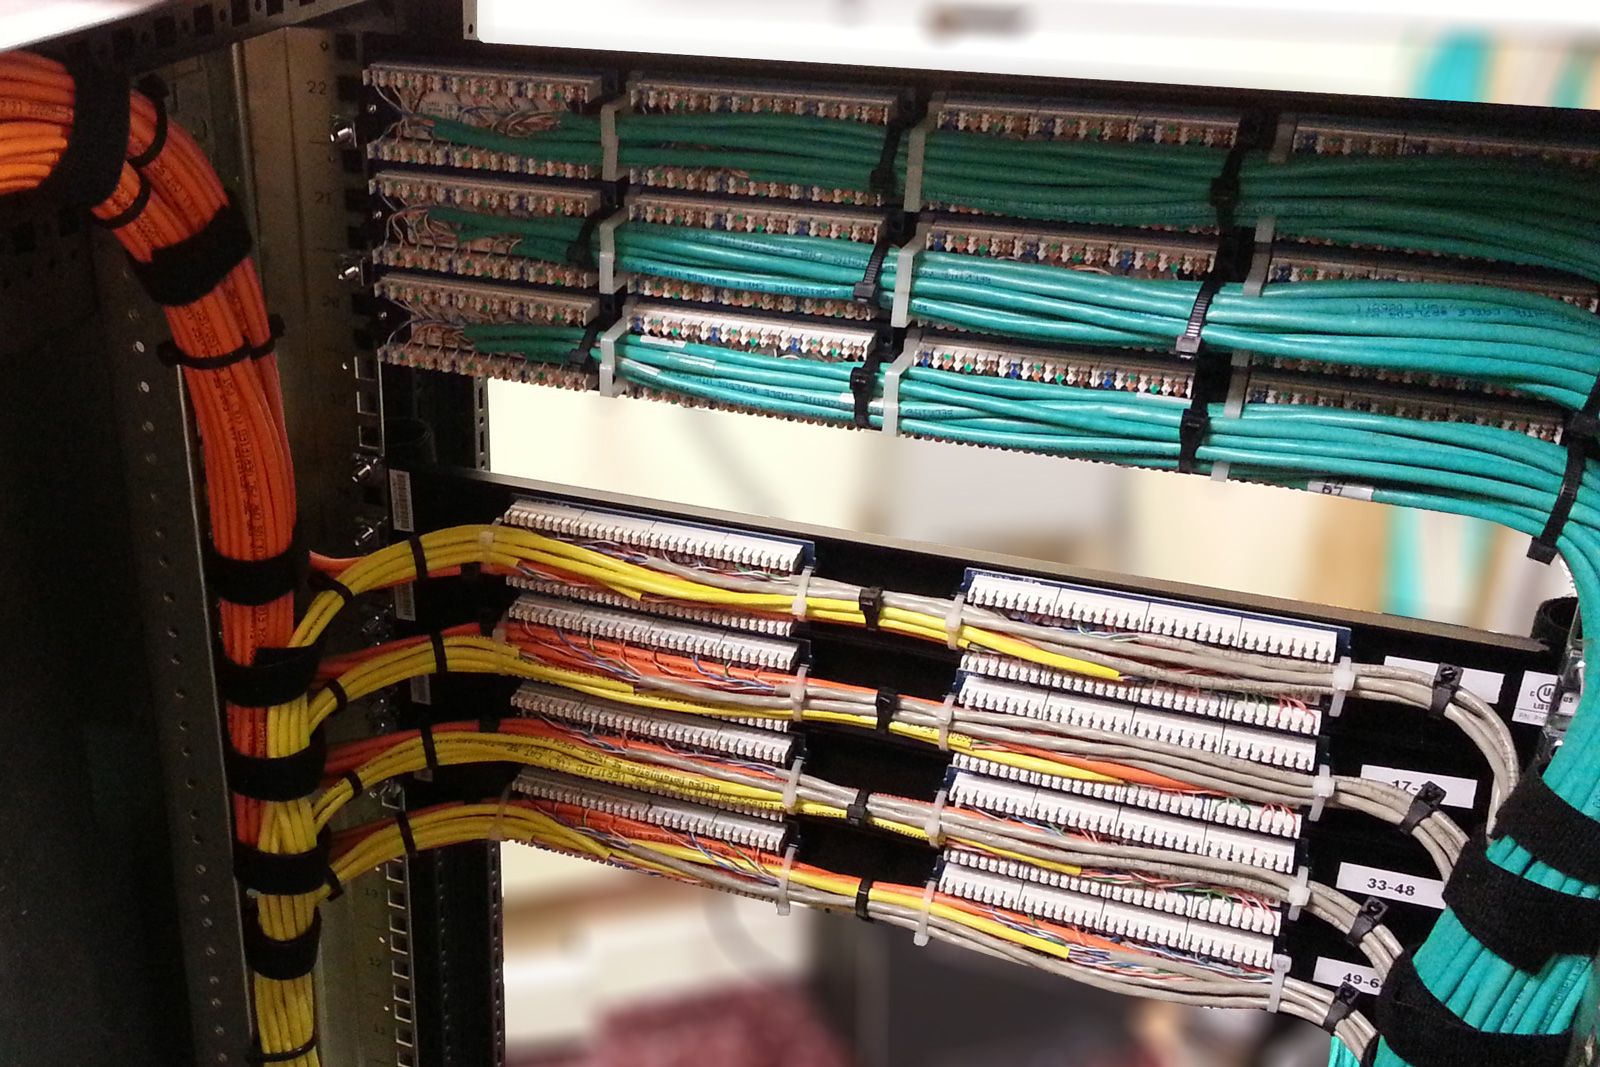
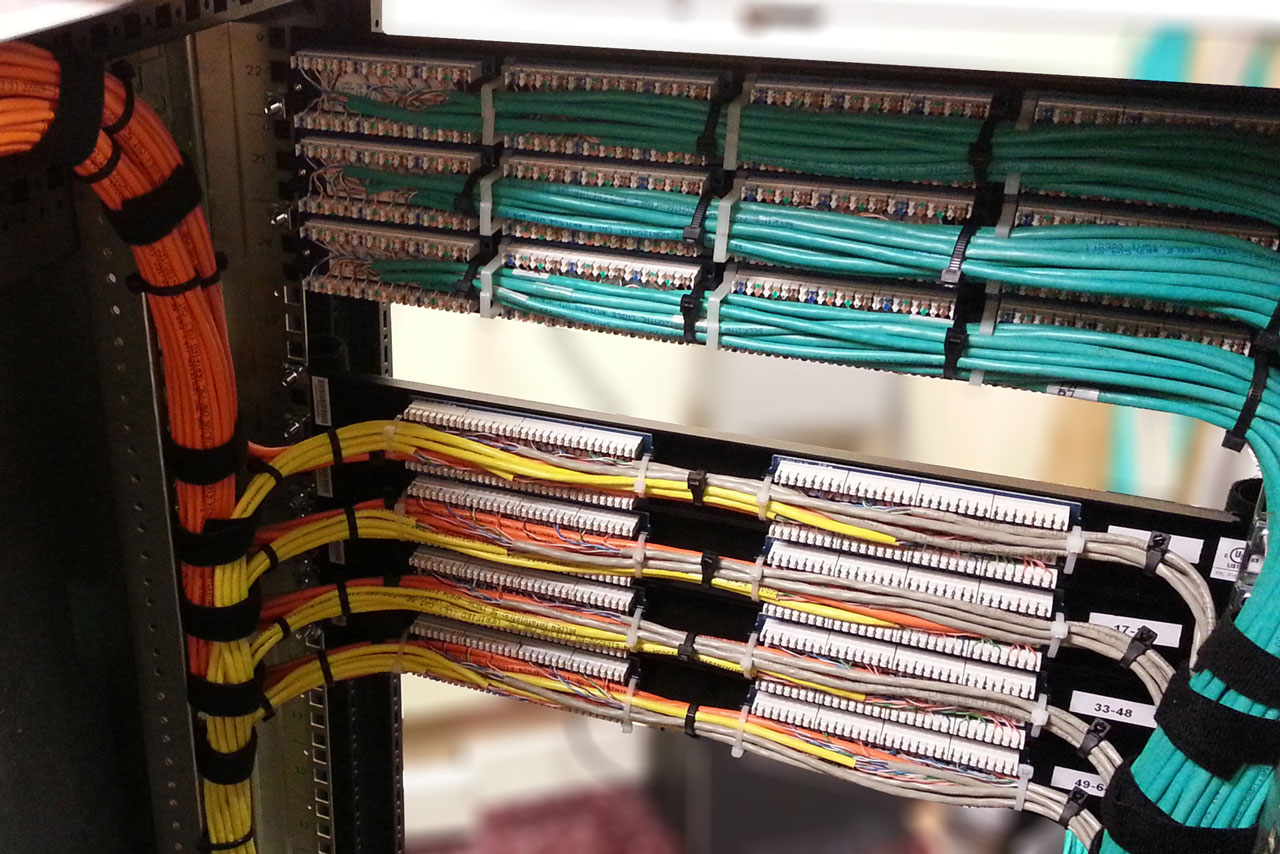
Misc Modifications Image Resize

diff --git a/index.html b/index.html
@@ -42,8 +42,8 @@
 			<ul>
 				<li><a href="https://www.facebook.com/LinkTechServicesLLC" title="Visit LinkTech Services on Facebook"><img src="images/icon-facebook.png" /></a></li>
 				<li><a href="https://twitter.com/LinkTechSD" title="Follow LinkTech Services on Twitter"><img src="images/icon-twitter.png" /></a></li>
-				<li><a href="#"><img src="images/icon-google.png" /></a></li>
-				<li><a href="#"><img src="images/icon-linkedin.png" /></a></li>
+				<!-- <li><a href="#"><img src="images/icon-google.png" /></a></li> -->
+				<!-- <li><a href="#"><img src="images/icon-linkedin.png" /></a></li> -->
 			</ul>
 		</nav>
 
@@ -70,7 +70,7 @@
 		<section class="content show" id="home">
 			<h1>Welcome</h1>
 			<h5>Our site is coming soon!</h5>
-			<p>Serving the Black Hills of South Dakota and the surrounding area, LinkTech Services aims to fulfill the technology needs of businesses and residents alike. Let LinkTech Services be your IT department so you can take care of more important things.</p>
+			<p>Serving the Black Hills of South Dakota and the surrounding area, LinkTech Services aims to fulfill the technology needs of small to medium-sized businesses. Let LinkTech Services be your IT department so you are freed to take care of more important things, like running your business.</p>
 			<p><a href="#about">More info &#187;</a></p>
 		</section>
 
